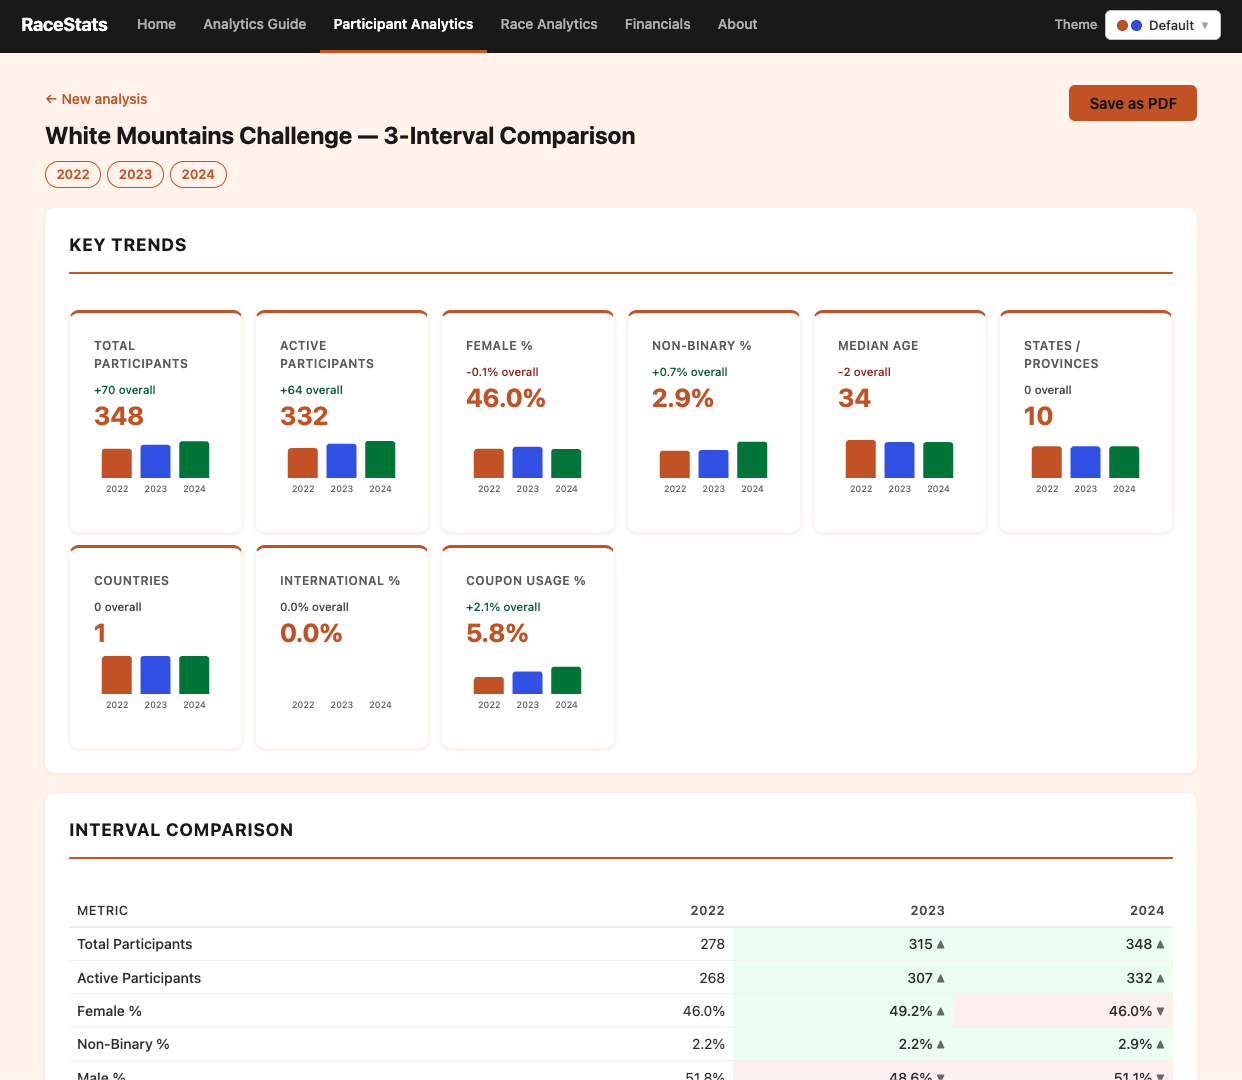
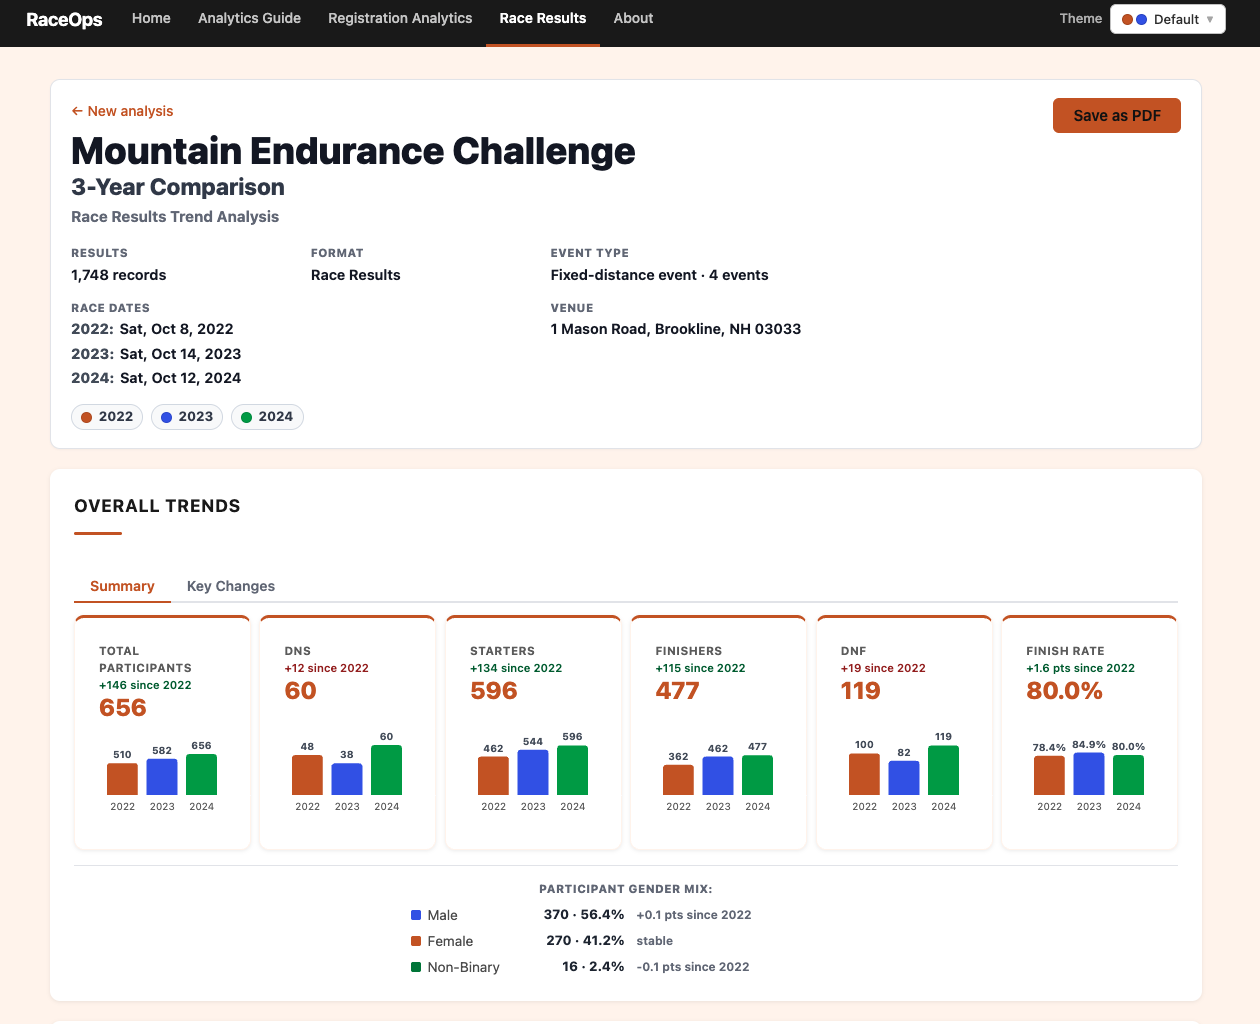
Reordering cards, fixing a bug where the URL was still racestats not raceops, which caused CORS problems

diff --git a/src/components/Projects.jsx b/src/components/Projects.jsx
@@ -12,24 +12,12 @@ const CREATIVE_WEBSITE_REPOSITORY_URL = 'https://github.com/robfiero/creative-we
 
 const projects = [
   {
-    id: 'todays-overview',
-    title: "Today’s Overview",
-    description: 'Full-stack dashboard for news, weather, markets, and events with real-time updates and AWS deployment.',
-    image: overview,
-    buttonLabel: 'TRY IT OUT',
-    buttonHref: 'https://todaysoverview.robfiero.net',
-    category: 'Engineering',
-    status: 'Live',
-    tags: ['Java', 'React', 'AWS', 'Full-Stack'],
-    imageFit: 'contain',
-  },
-  {
     id: 'race-data-analysis',
     title: 'Race Analytics',
-    description: 'Surface the data so race directors can understand their events clearly.',
+    description: 'Turns race registration and results exports into clear, story-driven analytics for race directors.',
     image: raceperformance,
     buttonLabel: 'TRY IT OUT',
-    buttonHref: 'https://racestats.robfiero.net/',
+    buttonHref: 'https://raceops.robfiero.net/',
     category: 'Engineering',
     status: 'Coming Soon',
     tags: ['Node.js', 'React', 'AWS', 'Analytics'],
@@ -47,6 +35,18 @@ const projects = [
     status: 'In Progress',
     tags: ['React', 'TypeScript', 'Metadata-Driven'],
     imageFit: 'cover',
+  },
+  {
+    id: 'todays-overview',
+    title: "Today’s Overview",
+    description: 'Full-stack dashboard for news, weather, markets, and events with real-time updates and AWS deployment.',
+    image: overview,
+    buttonLabel: 'TRY IT OUT',
+    buttonHref: 'https://todaysoverview.robfiero.net',
+    category: 'Engineering',
+    status: 'Live',
+    tags: ['Java', 'React', 'AWS', 'Full-Stack'],
+    imageFit: 'contain',
   },
   {
     id: 'portfolio-website',

diff --git a/src/components/Hero.jsx b/src/components/Hero.jsx
@@ -10,7 +10,7 @@ export default function Hero() {
 
           <div className="hero-sub">
             <div>
-              Software Engineering Manager | UI Development | Java | Cloud Platforms | Distributed Systems
+              Product Creator | Software Engineering Manager | UI Development | Cloud Platforms | Distributed Systems
             </div>
             <div>
               Team And Community Builder | Runner | Ultramarathoner | Race Director | Charity Fundraiser | Photographer |
